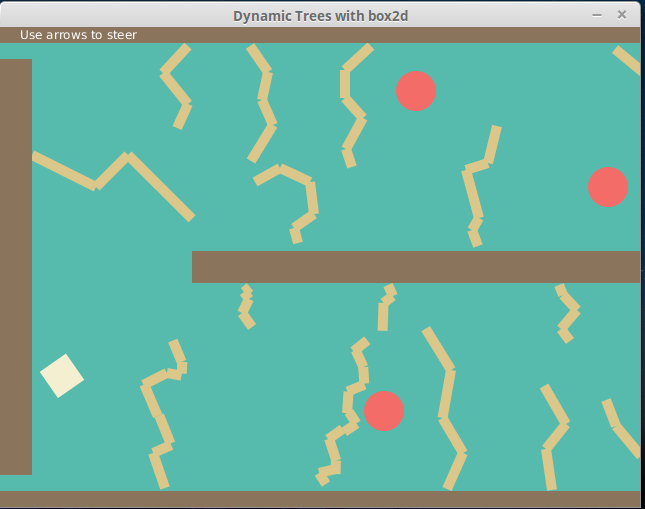
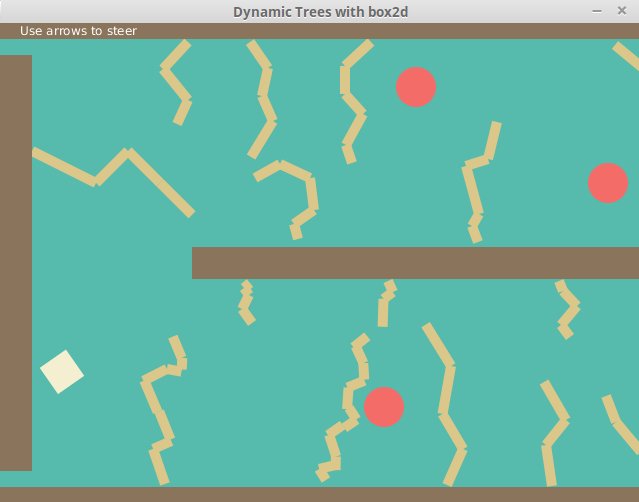
update readme and screenshot

diff --git a/README.md b/README.md
@@ -3,6 +3,8 @@
 Inspired by [Badland](https://play.google.com/store/apps/details?id=com.frogmind.badland&hl=de) I created a small
 simulation where I test realistic tree behaviour. RevoluteJoins are used to connect the tree parts.
 
+![Alt text](/screenshots/screenshot.png?raw=true "screenshot")
+
 ## Installation
 
 You need [gradle](http://gradle.org/) to run the application.
